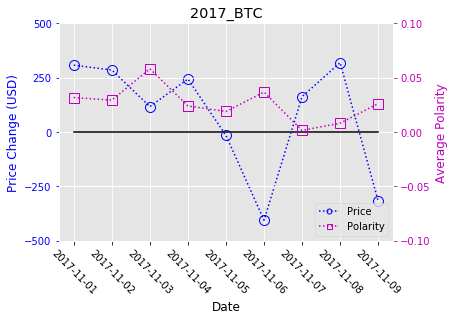
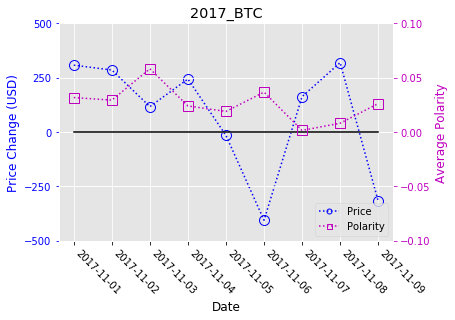
Plots v1 and troubleshooting edits

Changed region(s): [[0.1231, 0.7812, 0.9538, 0.9375]]

diff --git a/PlotsSuite.py b/PlotsSuite.py
@@ -1,0 +1,127 @@
+import matplotlib.pyplot as plt
+import matplotlib.lines as mlines
+import numpy as np
+import seaborn as sns
+import matplotlib.patches
+from datetime import datetime
+plt.style.use('ggplot')
+
+def dailyPriceSentimentChart(df, file_suffix):
+    #initialize figure with title
+    fig, ax1 = plt.subplots()
+    plt.title(file_suffix)
+    
+    #plot price_diff series against date
+    ax1.plot(df.date, df.price_diff, 'b.:', markersize=20, markerfacecolor="None")
+
+    #determine maximum distance away from zero as factor of 100 (for y axis labels)
+    max_diff = np.ceil(max(np.abs(ax1.get_ybound()))/100)*100
+    
+    #get the properly spaced xlabels determined by seaborn
+    xlabels = ax1.get_xticklabels()
+
+    #price_diff series plot formatting
+    ax1.set_xlabel('Date', color = 'k')
+    ax1.tick_params('x',labelrotation=-45)
+    ax1.set_xticklabels(xlabels, ha="left")
+    ax1.tick_params('x', colors='k')
+    ax1.set_ylabel('Price Change (USD)', color='b')
+    ax1.tick_params('y', colors='b')
+    ax1.yaxis.set_ticks(np.linspace(-max_diff,max_diff,5))
+
+    #new plot with matching x axis as price_diff
+    ax2 = ax1.twinx()
+
+    #plot horizontal line to show +/- boundary
+    horiz_line = np.array([0 for i in range(len(df.date))])
+    ax2.plot(df.date,horiz_line, 'k')
+
+    #plot daily_sentiment series against date
+    ax2.plot(df.date, df.value, 'ms:', markersize=10, markerfacecolor="None")
+
+    #determine maximum distance away from zero as factor of 10 (for y axis labels)
+    max_pol = np.ceil(max(np.abs(ax2.get_ybound()))*10)/10
+
+    #daily_sentiment series plot formatting
+    ax2.set_ylabel('Average Polarity', color='m')
+    ax2.tick_params('y', colors='m')
+    ax2.yaxis.set_ticks(np.linspace(-max_pol,max_pol,5))
+
+    #custom legend for both plots
+    blue_circle = mlines.Line2D([],[], color='b', marker='.', markersize=10, markerfacecolor="None", label='Price', linestyle=":")
+    pink_square = mlines.Line2D([],[], color='m', marker='s', markersize=5, markerfacecolor="None", label='Polarity', linestyle=":")
+    plt.legend(handles=[blue_circle,pink_square], loc = "lower right")
+
+    #saving and showing plots
+    path = 'figures/PriceSentimentChart_' + file_suffix + '.png'
+    plt.savefig(path, bbox_inches='tight')
+    plt.show()
+    
+    
+
+def dailySentimentsOverview(df, file_suffix):
+
+    #converting all negative polarity values to positive numbers for plotting
+    df.value = abs(df.value)
+
+    #create figure with subplots that share a x axis and properly sized to one another
+    fig, (ax1, ax2) = plt.subplots(2, 1, sharex=True, figsize=(8,6), gridspec_kw={'height_ratios':[3,1]})
+
+    #custom colors for +/- values
+    colors = ['green', 'red']
+
+    #plot first subplot, boxplots for +/- polarity values by day
+    sns.boxplot(data=df, x='date', y='value', palette=colors, hue='variable', ax=ax1)
+    
+    #polarity boxplot formatting
+    ax1.set_title(file_suffix)
+    ax1.set_ylabel('Polarity', color = 'k')
+    ax1.tick_params('y', colors='k')
+    ax1.xaxis.set_visible(False)
+    ax1.legend_.set_title(None)
+
+    #looping through all boxplot chart elements to remove color inside boxplot boxes and change all
+    #line and marker elements to proper color according to +/- polarity group
+    for i,artist in enumerate(ax1.artists):
+        col = artist.get_facecolor()
+        artist.set_edgecolor(col)
+        artist.set_facecolor('None')
+    
+        for j in range(i*6,i*6+6):
+            line = ax1.lines[j]
+            line.set_color(col)
+            line.set_mfc(col)
+            line.set_mec(col)
+
+    #plot second subplot, bar chart showing number of +/- polarity values by day
+    df.date = df.date.astype(str) #convert date objects to strings
+    sns.countplot(data=df, x='date', palette=colors, hue='variable', linewidth=2, ax=ax2)
+    
+    #get the properly spaced xlabels determined by seaborn
+    xlabels = ax2.get_xticklabels()
+
+    #polarity bar chart formatting
+    ax2.set_xlabel('Date', color = 'k')
+    ax2.tick_params('x',labelrotation=-45)
+    ax2.set_xticklabels(xlabels, ha="left")
+    ax2.tick_params('both', colors='k')
+    ax2.set_ylabel('Count', color = 'k')
+    ax2.legend_.remove()
+
+    #looping through all bar chart elements to remove color inside bars and change its edges to
+    #proper color according to +/- polarity values
+    back_col = ax2.get_facecolor() #chart background color
+    for child in ax2.get_children():
+        if isinstance(child, matplotlib.patches.Rectangle):
+            col = child.get_facecolor()
+            if not col == back_col: #checking to make sure Rectangle is bar and not axes Rectangles
+                child.set_edgecolor(col)
+                child.set_facecolor('None')
+
+    #tighten subplot spacing
+    plt.subplots_adjust(hspace=.03)
+    
+    #saving and showing plots
+    path = 'figures/SentimentsOverviewChart_' + file_suffix + '.png'
+    plt.savefig(path, bbox_inches='tight')
+    plt.show()

diff --git a/DataAggr.py b/DataAggr.py
@@ -17,14 +17,20 @@ def fetchSentiments(folder, crypto):
     #create list of .txt files in folder path that match regular expression
     files = [reg.search(filename).group(0) for filename in os.listdir(path) if reg.search(filename)]
     
+    #determine correct file format suffix based on folder
+    if folder == 'coin_tweets':
+        suffix = '.txt'
+    else:
+        suffix = '.csv'
+    
     #initialize and append dataframes made from each .txt file
     for filename in files:
         df_exists = 'df' in locals()
         if not df_exists:
-            df = pd.read_csv(path+filename+'.csv')
+            df = pd.read_csv(path+filename+suffix)
             df['date'] = datetime.strptime(filename, '%Y%m%d')
         else:
-            temp = pd.read_csv(path+filename+'.csv')
+            temp = pd.read_csv(path+filename+suffix)
             temp['date'] = datetime.strptime(filename, '%Y%m%d')
             df = pd.concat([df, temp])                
     return df
